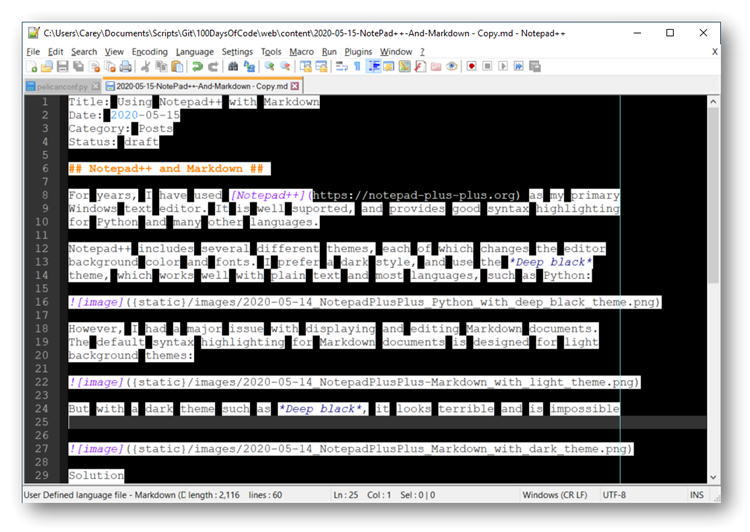
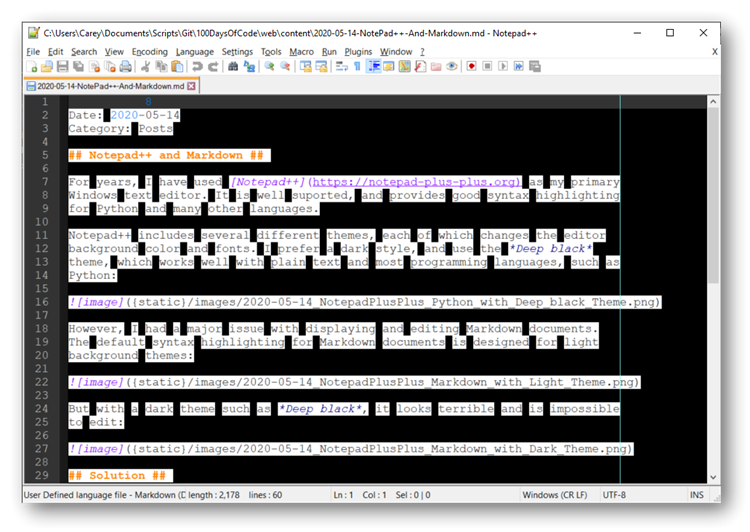
Update documentation

diff --git a/day-8-using-notepad-with-markdown.html b/day-8-using-notepad-with-markdown.html
@@ -43,7 +43,8 @@ Windows text editor. It is well suported, and provides good syntax highlighting
 for Python and many other languages. </p>
 <p>Notepad++ includes several different themes, each of which changes the editor
 background color and fonts. I prefer a dark style, and use the <em>Deep black</em>
-theme, which works well with plain text and most languages, such as Python:</p>
+theme, which works well with plain text and most programming languages, such as
+Python:</p>
 <p><img alt="image" src="https://simulatine.github.io/100DaysOfCode/images/2020-05-14_NotepadPlusPlus_Python_with_Deep_black_Theme.png"></p>
 <p>However, I had a major issue with displaying and editing Markdown documents.
 The default syntax highlighting for Markdown documents is designed for light
@@ -59,7 +60,7 @@ which contained updated dark syntax highlighting themes for Notepad++,
 specifically designed for editing Markdown documents.</p>
 <p>To install these, I downloaded the latest
 <a href="https://github.com/Edditoria/markdown-plus-plus/archive/v3.1.0.zip">zip file</a>,
-and extracted the contents. The <em>UDL</em> folder in the zip file contained a number
+and extracted the contents. The <code>udl</code> folder in the zip file contained a number
 of XML files which had markdown syntax highlighting for each Notepad++ colour
 theme:</p>
 <div class="highlight"><pre><span></span><code>markdown.bespin.udl.xml
@@ -75,8 +76,14 @@ markdown.zenburn.udl.xml
 
 <p>I copied the XML files to the <code>%AppData%\Notepad++\userDefineLangs</code> folder,
 overwriting any existing XML files.</p>
-<p>I then restarted Notepad++ and open the source file for this page:</p>
-<p><img alt="image" src="https://simulatine.github.io/100DaysOfCode/images/NotepadPlusPlus_Markdown_with_Edditoria_ULDs.png"></p>
+<p>I then restarted Notepad++ and open the source file for this page. From the
+<strong>Language</strong> menu, I selected <strong>Markdown (Deep Black)</strong> and saw a properly
+formatted Markdown document:</p>
+<p><img alt="image" src="https://simulatine.github.io/100DaysOfCode/images/2020-05-14_NotepadPlusPlus_Markdown_with_Edditoria_ULDs.png"></p>
+<h2>Conclusion</h2>
+<p>This took me a couple of days to resolve, but the results are worth it. For a
+while I was limited to editing .MD Markdown documents in plain old Notepad,
+which was a real throwback. Now I can edit them directly in Notepad++.</p>
     </div><!-- /.entry-content -->
 
   </article>
